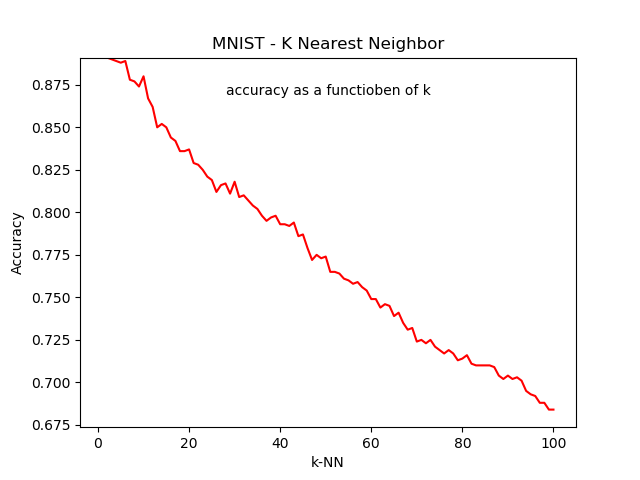
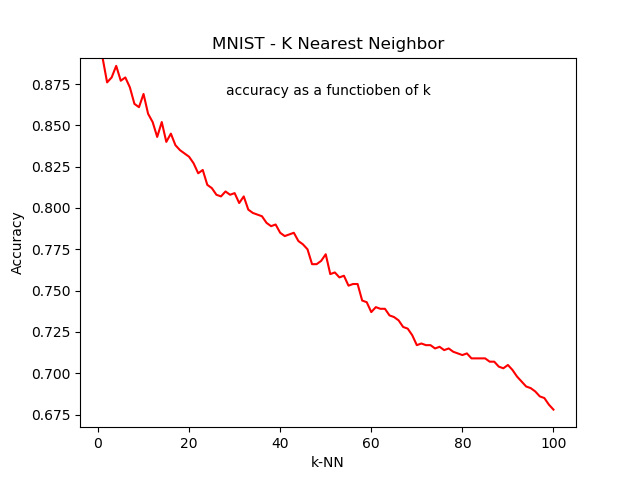
update

diff --git a/ex1/nearest_neighbor.py b/ex1/nearest_neighbor.py
@@ -30,26 +30,30 @@ test_labels = labels[idx[10000:]]
 # L2 metric. In case of a tie between the k labels of neighbors, it will choose an arbitrary
 # option.
 
-def knn(mat, labels, vec, k):
-	# euclid_mat = np.apply_along_axis(lambda x: np.sqrt(np.dot((x - vec),(x - vec))), 1, mat)
-	euclid_mat = np.sum((mat - vec) * (mat - vec), axis=1) # sum is performed along each row
-	indices = np.argsort(euclid_mat)
-	nearest_idx = indices[:k]
-	nearest_labels = [labels[i] for i in nearest_idx]
+def knn(mat, labels, vecs, k):
+	n = vecs.shape[0] # num test images
+	pred_labels = np.zeros(n)
+	for i in range(n):
+		vec = vecs[i]
+		# euclid_mat = np.apply_along_axis(lambda x: np.sqrt(np.dot((x - vec),(x - vec))), 1, mat)
+		euclid_mat = np.sum((mat - vec) * (mat - vec), axis=1) # sum is performed along each row
+		indices = np.argsort(euclid_mat)
+		nearest_idx = indices[:k]
+		nearest_labels = [labels[i] for i in nearest_idx]
 
-	c = Counter(nearest_labels) # a dictionary of keys and their counts
-	return c.most_common(1)[0][0]
+		c = Counter(nearest_labels) # a dictionary of keys and their counts
+		pred_labels[i] = c.most_common(1)[0][0]
+
+	return pred_labels
 
 def calc_loss_given_k(X, y, k):
 	loss = 0
-	n = len(test[:100])
 	neigh = KNeighborsClassifier(n_neighbors=k)
 	neigh.fit(X, y)
-	for i in range(n):
-		# pred_label = knn(X, y, test[i], k)
-		pred_label = neigh.predict(test[i])[0]
-		loss += (pred_label != test_labels[i])
-	return loss / n
+	# pred_labels = knn(X, y, test, k)
+	pred_labels = neigh.predict(test)
+	loss += np.sum(pred_labels != test_labels)
+	return loss / test.shape[0]
 
 def visualize_data(X, y):
 	pca = PCA(n_components=2)
@@ -57,12 +61,14 @@ def visualize_data(X, y):
 
 	plt.scatter(x=pca_result[:, 0], y = pca_result[:, 1], c=y, cmap=plt.cm.get_cmap('Paired'))
 	plt.show()
+	plt.close()
 
 def iterate_over_k(from_k, to_k, step):
 	acc_vals = []
 	k_vals = []
 
 	for k in range(from_k, to_k + step):
+		# print("k {}".format(k))
 		loss = calc_loss_given_k(train[:1000], train_labels[:1000], k)
 		acc_vals.append(1 - loss)
 		k_vals.append(k)
@@ -70,21 +76,23 @@ def iterate_over_k(from_k, to_k, step):
 	best_acc, best_k = sorted(zip(acc_vals, k_vals), reverse=True)[0]
 	print("Best K is {} with accuracy {}".format(best_k, best_acc))
 
-	title = 'acc_as_func_of_k'
+	title = 'MNIST - K Nearest Neighbor'
 	plt.text(0.5, 0.9, 'accuracy as a functioben of k', transform=plt.gca().transAxes, ha='center')
 	plt.title(title)
 	plt.plot(k_vals, acc_vals, 'r-')
-	plt.ylim(ymax = 1)
+	plt.ylim(ymax = max(acc_vals))
 	plt.ylabel('Accuracy')
-	plt.xlabel('k')
+	plt.xlabel('k-NN')
 	plt.savefig(title)
 	# plt.show()
+	plt.close()
 
 def iterate_over_n(from_n, to_n, step):
 	acc_vals = []
 	n_vals = []
 	
 	for n in range(from_n, to_n + step, step):
+		# print("n {}".format(n))
 		loss = calc_loss_given_k(train[:n], train_labels[:n], 1)
 		acc_vals.append(1 - loss)
 		n_vals.append(n)
@@ -92,15 +100,16 @@ def iterate_over_n(from_n, to_n, step):
 	best_acc, best_n = sorted(zip(acc_vals, n_vals), reverse=True)[0]
 	print("Best n is {} with accuracy {}".format(best_n, best_acc))
 
-	title = 'acc_as_func_of_n'
-	plt.text(0.5, 0.9, 'accuracy as a function of n', transform=plt.gca().transAxes, ha='center')
+	title = 'MNIST - 1 Nearest Neighbor'
+	plt.text(0.5, 0.5, 'accuracy as a function of n', transform=plt.gca().transAxes, ha='center')
 	plt.title(title)
 	plt.plot(n_vals, acc_vals, 'b-')
-	plt.ylim(ymax = 1)
+	plt.ylim(ymax = max(acc_vals))
 	plt.ylabel('Accuracy')
-	plt.xlabel('n')
+	plt.xlabel('samples (n)')
 	plt.savefig(title)
 	# plt.show()
+	plt.close()
 
 if __name__ == '__main__':
 	# loss = calc_loss_given_k(10)
